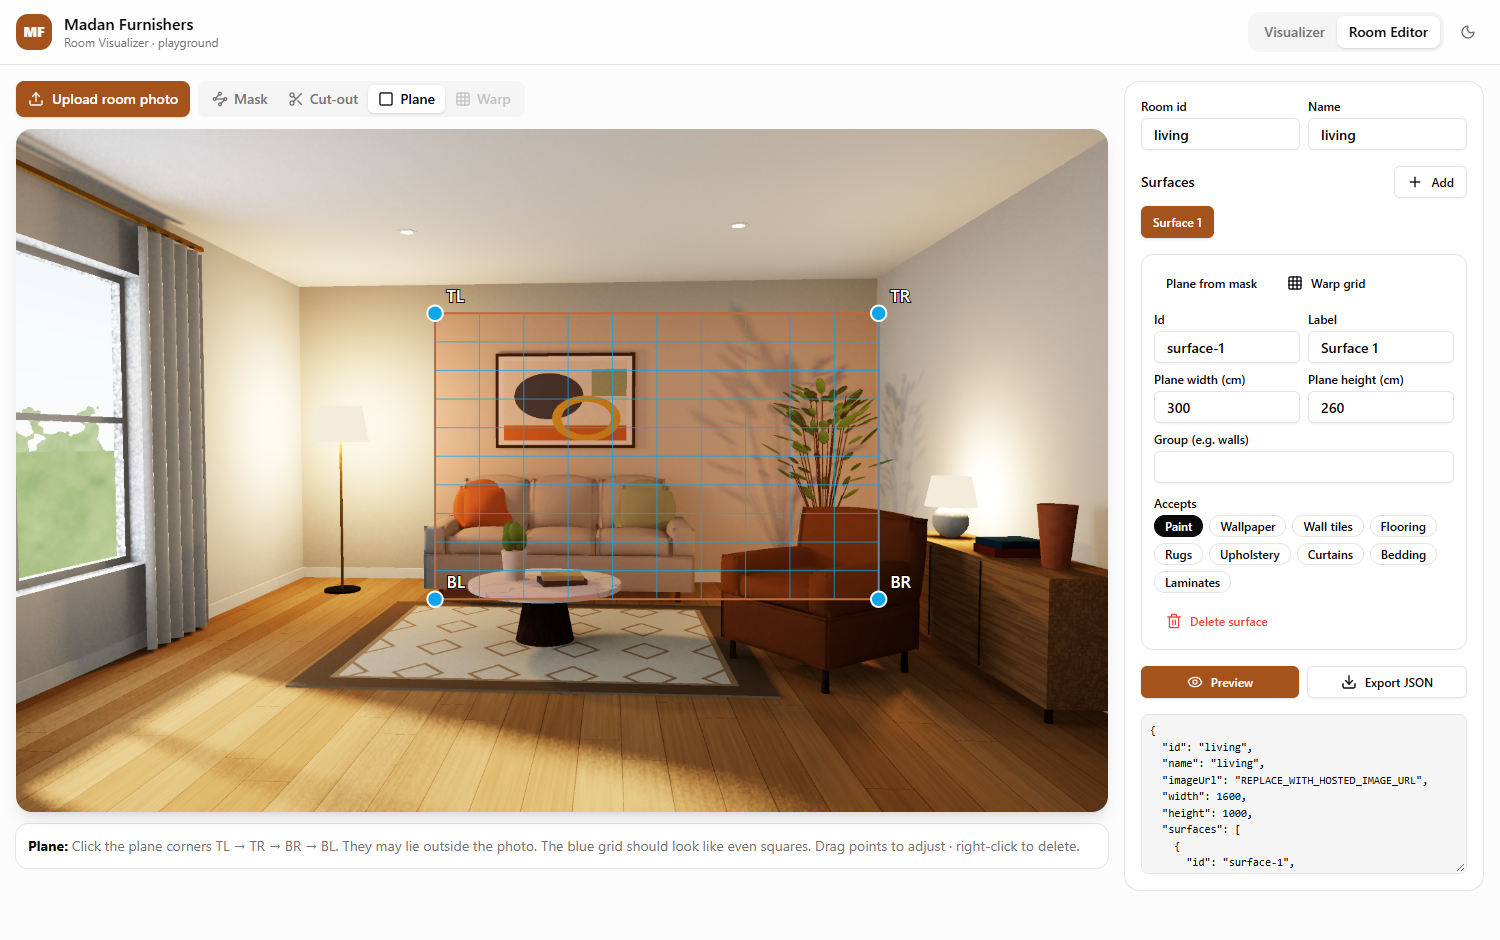
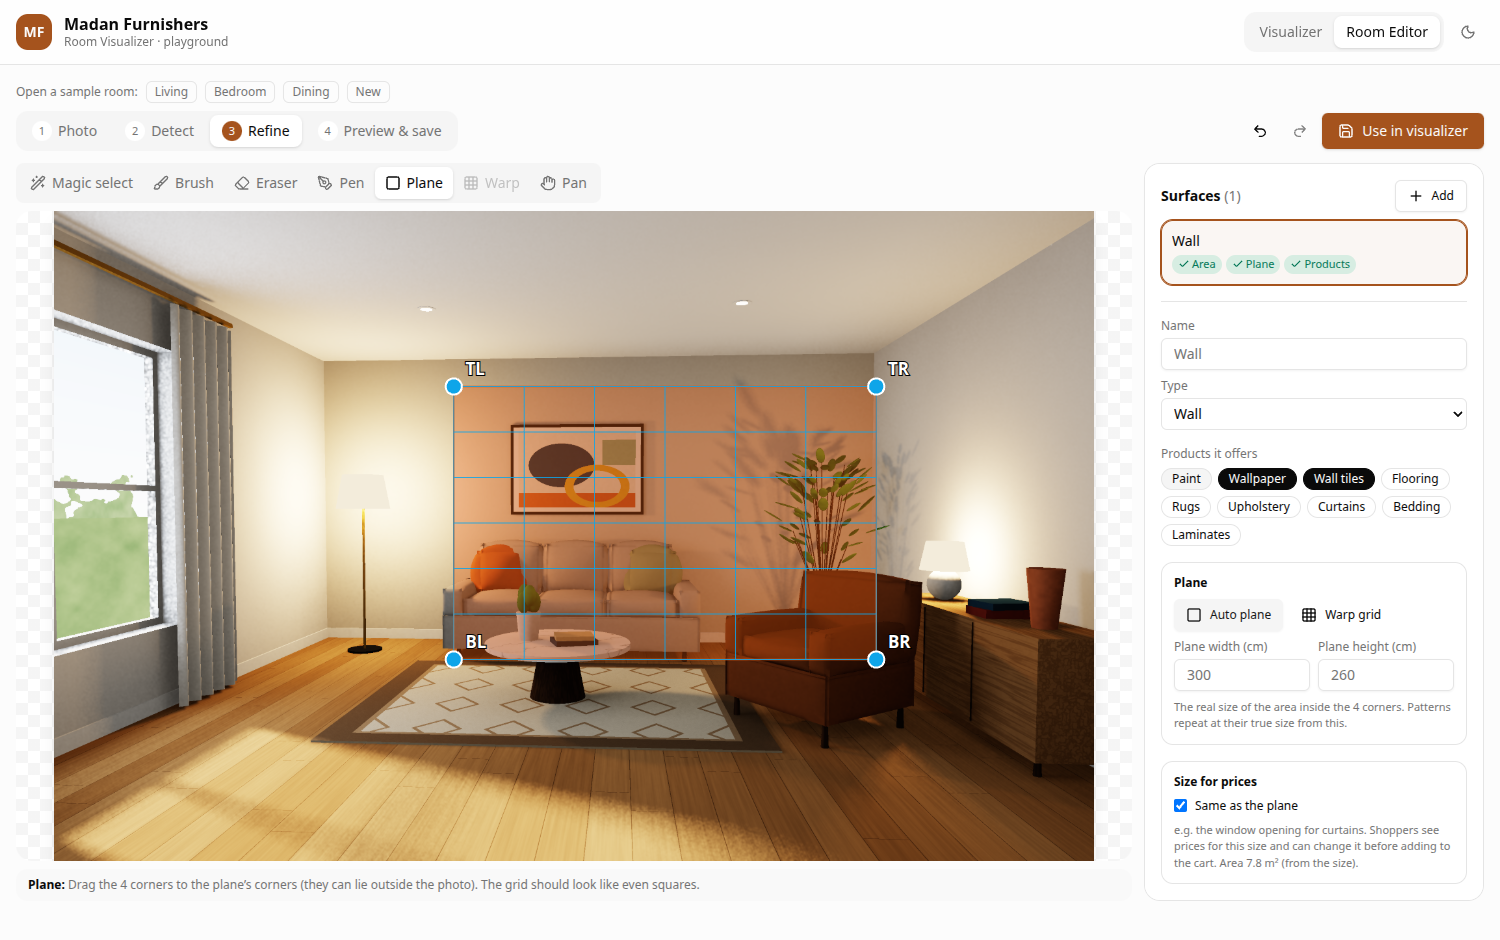
docs: Madan integration, entries, props and the new room editor; editor screenshot

diff --git a/README.md b/README.md
@@ -52,45 +52,63 @@ This opens the playground at http://localhost:5173. It contains the visualizer (
 
 ## Using it in the Madan app
 
-```bash
-npm install github:<owner>/<repo>
+Madan's storefront (`/virtual-vision`) and dashboard (Catalogue → Room visualizer) use this package. The full guide for that integration is `api/DEV.VISUALIZER.README.md` in the Madan workspace. In short:
+
+```json
+"@madan/room-visualizer": "github:KushalNaral/madan-room-visualizer#<commit sha>"
 ```
 
-**1. Tailwind.** The components use shadcn token classes, so they pick up the app's theme automatically. Add the preset and let Tailwind scan the package:
+`dist/` is built by the `prepare` script on install; npm 11 asks once: `npm install-scripts approve @madan/room-visualizer`. While developing next to this checkout, `"file:../madan-room-visualizer"` works too. Add `resolve.dedupe: ['vue']` to the host's Vite config, and limit component auto-import globs to `./src`.
 
-```ts
-// tailwind.config.ts
-import visualizerPreset from '@madan/room-visualizer/tailwind-preset'
+| Entry | For |
+|---|---|
+| `@madan/room-visualizer` | `RoomVisualizer`, `HttpProductSource`, renderer, state, types |
+| `@madan/room-visualizer/editor` | `RoomEditor` and its helpers (dashboard only) |
+| `@madan/room-visualizer/editor-worker` | The segmentation worker; bundle it with `?worker` |
+| `@madan/room-visualizer/url` | `serializeSelections` / `parseSelections` alone (share links) |
+| `@madan/room-visualizer/mock` | Mock catalog (playground and tests only) |
+| `@madan/room-visualizer/tailwind-preset` | Tailwind preset |
 
-export default {
+**1. Tailwind.** The components use shadcn token classes, so they pick up the app's theme automatically. Add the preset and let Tailwind scan the package (drop the preset's `plugins` if the app already registers `tailwindcss-animate`):
+
+```js
+// tailwind.config.js
+const visualizerPreset = { ...require('@madan/room-visualizer/tailwind-preset').default, plugins: [] }
+module.exports = {
   presets: [visualizerPreset],
   content: ['./src/**/*.{vue,ts}', './node_modules/@madan/room-visualizer/dist/**/*.js'],
 }
 ```
 
-The preset needs the standard shadcn CSS variables (`--background`, `--primary`, … plus `--popover`), which a shadcn-vue app already defines.
-
-**2. Render it:**
+**2. Render it** (this is what Madan's storefront does):
 
 ```vue
 <script setup lang="ts">
-import { RoomVisualizer, HttpProductSource, type AppliedItem, type Product } from '@madan/room-visualizer'
+import { HttpProductSource, RoomVisualizer, type AppliedItem, type Product, type Variant } from '@madan/room-visualizer'
 
-const source = new HttpProductSource({ baseUrl: import.meta.env.VITE_VISUALIZER_API })
+const source = new HttpProductSource({
+  baseUrl: `${import.meta.env.VITE_API_URL}front/visualizer`,
+  // Paths → URLs; 'room' images (photo, id map, lighting) must not be resized or re-encoded.
+  assetUrl: (path, use) => imagePath(path, use === 'texture' ? 1024 : use === 'thumb' ? 320 : undefined),
+})
 
 function addToCart(items: AppliedItem[]) {
-  // Each item carries the surface, product, variant (SKU) and an estimate.units quantity.
-  cart.addMany(items.map((i) => ({ sku: i.variant.sku, qty: i.estimate.units })))
+  // items[i].estimate.cart is the server quote's cart payload (see ProductSource.quote).
 }
-function openProduct(p: Product) {
-  router.push(`/products/${p.id}`)
+function viewProduct(product: Product, variant?: Variant) {
+  router.push(`/product/${variant?.slug}`)
 }
 </script>
 
 <template>
-  <div class="h-[calc(100vh-4rem)]">
-    <RoomVisualizer :source="source" sync-url @add-to-cart="addToCart" @view-product="openProduct" />
-  </div>
+  <RoomVisualizer
+    :source="source"
+    sync-url
+    :format-price="formatMoney"
+    :cart-feedback="false"
+    @add-to-cart="addToCart"
+    @view-product="viewProduct"
+  />
 </template>
 ```
 
@@ -99,47 +117,67 @@ function openProduct(p: Product) {
 | `source` | — | Any `ProductSource` |
 | `initialRoomId` | first room | |
 | `syncUrl` | `false` | Mirror `?room=&look=` in the address bar |
-| `currency` | `'INR'` | |
+| `currency` | `'INR'` | Used by the default price format |
+| `formatPrice` | Intl with `currency` | Formats every price (summary, cards, moodboard) |
+| `cartFeedback` | `true` | Toast after `addToCart`; turn off when the host confirms itself |
 | `brand` | `'Madan Furnishers'` | Shown on moodboards |
 | `storageKey` | `'madan-visualizer'` | localStorage namespace; `false` disables |
 | `toasts` | `true` | Set `false` if the app already mounts a `vue-sonner` `<Toaster>` |
 
-Events: `addToCart(items)`, `viewProduct(product)`, `variantApplied({ surface, product, variant })`, `roomChange(roomId)`.
+Events: `addToCart(items)`, `viewProduct(product, variant)`, `variantApplied({ surface, product, variant })`, `roomChange(roomId)`.
 
-For lower-level use, the package also exports `RoomRenderer`, `useVisualizerState`, `useCatalog` and the homography helpers. The mock catalog lives in a separate entry, `@madan/room-visualizer/mock`, so it never lands in production bundles.
+For lower-level use, the package also exports `RoomRenderer`, `useVisualizerState`, `useCatalog`, `estimate`/`surfaceSize`, `quoteLine` and the homography helpers.
 
-## The API Madan needs to expose
+## The API a source talks to
 
-`HttpProductSource` expects these endpoints (shapes in [`src/types.ts`](src/types.ts)). Use its `mapProduct` / `mapRoom` options if the backend's shapes differ.
+`HttpProductSource` expects these endpoints (shapes in [`src/types.ts`](src/types.ts)); Madan serves them at `/api/front/visualizer`. Responses are the bare shapes (no envelope); use `mapProduct` / `mapRoom` / `mapCategory` if a backend differs.
 
 ```
-GET /categories                                          → Category[]
-GET /products?category=a,b&search=&sort=&page=&pageSize= → { items: Product[], total, page, pageSize }
-GET /products/:id                                        → Product
-GET /rooms                                               → Room[]
-GET /rooms/:id                                           → Room
+GET  /categories                                          → Category[]
+GET  /products?category=a,b&search=&sort=&page=&pageSize= → { items: Product[], total, page, pageSize }
+GET  /products/:id                                        → Product
+GET  /rooms                                               → Room[]
+GET  /rooms/:id                                           → Room
+POST /quote   { lines: QuoteLine[] }                      → Quote[]   (optional)
 ```
 
-What matters per variant for the visualizer:
+What matters per variant:
 - `textureUrl`: a **seamless tile** photo or scan of the material.
 - `tileSizeCm`: the real size that tile covers.
-- `finish`.
-- `tiling: 'stretch'` for one-off designs such as rugs.
+- `finish`, `tiling: 'stretch'` for one-off designs such as rugs.
+- `approximate: true` when the texture is only a stand-in (shown as "Approx.").
 
-`Product.pricing` (`unit`, `coverageM2`, `wastage`) drives the quantity estimates.
+**Prices.**
+- `Product.pricing.unit` (`litre`, `roll`, `m²`, `sqft`, `metre`, `piece`, `box`), `coverageM2` and `wastage` drive the instant local estimate.
+- When the source implements `quote(lines)`, its server prices replace that estimate as soon as they arrive. Each line sends the surface's `sizeCm` (or its largest patch) and `areaM2`.
+- A `Quote` may carry an opaque `cart` payload. It reaches the host as `AppliedItem.estimate.cart`.
 
 ## Adding real rooms
 
 There are two routes:
 
-1. **Photograph and author.** Open the playground's **Room editor** and upload a photo. For each surface:
-   - **Mask:** trace the visible region(s) and add **cut-outs** for anything in front of it.
-   - **Plane:** click the 4 perspective corners. A live grid shows the projection.
-   - **Warp** (optional): bend a grid over curved upholstery.
-   - Set the accepted categories and group, then **Export JSON**.
+1. **Photograph and author** in the **room editor** (playground tab "Room editor", or Madan's dashboard). The steps are ① Photo → ② Detect → ③ Refine → ④ Preview & save.
+   - **Detect** runs SegFormer (ADE20K) in a worker. It proposes walls (split into planes at the room's corners), floor, ceiling, curtains, blinds, sofas, beds, rugs and cabinets, each with a fitted plane, a warp grid for curved ones, and suggested categories. Tick the ones to keep.
+   - **Magic select** (SlimSAM) selects a thing with one click. Alt/right-click removes a part.
+   - **Brush, Eraser and Pen** fix what the models miss.
+   - **Plane / Warp**: drag the 4 corners (or the grid). The grid turns amber when the plane is twisted.
+   - Each surface takes a type, the categories it offers, the real plane size (pattern scale) and a size for prices.
+   - Undo/redo, autosave with restore, zoom/pan and keyboard shortcuts throughout. Preview uses a test pattern, and the editor emits `Room` JSON.
 
-   Rooms built this way use polygon masks and photo-based relighting.
-2. **Render.** For the highest fidelity, render rooms the way the mock rooms are made. [`scripts/scene`](scripts/scene) is a small multi-threaded path tracer (BVH, area/sun/lamp lights, AO, edge-aware denoising). It exports the photo, a 2× surface ID map, an exact **shading map**, the per-surface mesh/quad patches projected from 3D, anchors, areas and curated presets. Scenes are plain TypeScript; see [`rooms/living.ts`](scripts/scene/rooms/living.ts).
+   transformers.js is loaded inside the worker from jsDelivr at first use, so hosts don't install it. Models come from the Hugging Face hub and are cached by the browser. Override the URL with `workerConfig.transformersUrl`.
+
+   ```vue
+   <script setup lang="ts">
+   import { RoomEditor } from '@madan/room-visualizer/editor'
+   import SegmentWorker from '@madan/room-visualizer/editor-worker?worker'
+   </script>
+   <template>
+     <RoomEditor :room="room" :categories="categories" :create-worker="() => new SegmentWorker()" @save="(room, { image }) => save(room, image)" />
+   </template>
+   ```
+
+   Rooms built this way use polygon masks (even-odd, holes included) and photo-based relighting.
+2. **Render.** For the highest fidelity, render rooms the way the mock rooms are made. [`scripts/scene`](scripts/scene) is a small multi-threaded path tracer (BVH, area/sun/lamp lights, AO, edge-aware denoising). It exports the photo, a 2× surface ID map, an exact **shading map**, the per-surface mesh/quad patches projected from 3D, anchors, areas and curated presets. Scenes are plain TypeScript; see [`rooms/living.ts`](scripts/scene/rooms/living.ts). The editor opens these read-only and can convert them to editable masks.
 
 ## Architecture
 
@@ -150,11 +188,16 @@ src/
     stage/               WebGL stage (zoom/pan/compare), hotspots, quick bar, toolbar, room strip
     panel/               materials browser, product detail, pattern controls, looks, summary
     ui/                  shadcn-style primitives (button, tabs, slider, tooltip, popover…)
-  composables/           useVisualizerState (selections, history, looks, URL), useCatalog
+  composables/           useVisualizerState (selections, history, looks, URL, server quotes), useCatalog
   render/                RoomRenderer (WebGL2), shaders, homography, procedural textures
   data/                  ProductSource interface, HttpProductSource, MockProductSource + mock JSON
   lib/                   estimates, share-URL codec, moodboard export
-playground/              demo app + room editor
+  editor/                RoomEditor shell, canvas, surface list/inspector, detect panel, inline preview,
+                         useEditorState (undo, autosave), useMaskTools, useDetection
+    ai/                  worker (SegFormer + SlimSAM via transformers.js), client, protocol
+    lib/                 masks, contours (marching edges + Douglas–Peucker), plane fit, presets,
+                         wall splitting, warp fit, ids
+playground/              demo app (visualizer + room editor)
 scripts/scene/           offline path tracer that generates the mock rooms
 public/mock-rooms/       generated photos, shading maps, ID maps, thumbnails
 ```
